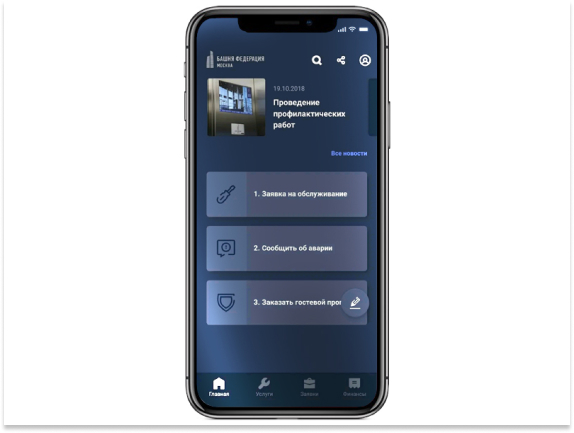
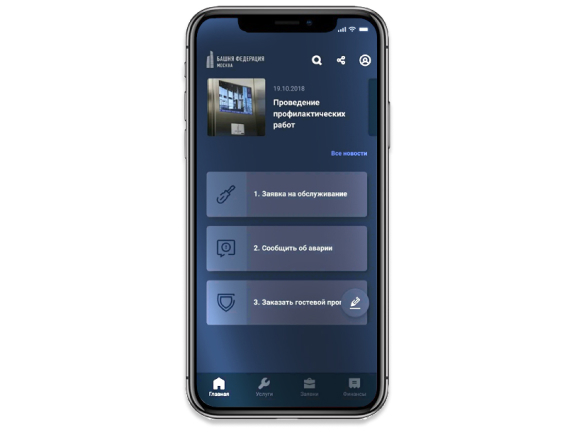
mobile

Changed region(s): [[0.0, 0.9307, 1.0, 1.0], [0.2962, 0.1801, 0.3258, 0.2102]]

diff --git a/style.css b/style.css
@@ -570,6 +570,11 @@ a, a:visited{
    flex: 1 1 auto;
    padding: 105px 0px 105px 0;
 }
+.columns__mobile{
+   width: 566px;
+   height: 425px;
+   filter: drop-shadow(0px 4px 4px rgba(0, 0, 0, 0.25));
+}
 .columns__mobile img{
    max-width: 100%;
    height: 425px;
